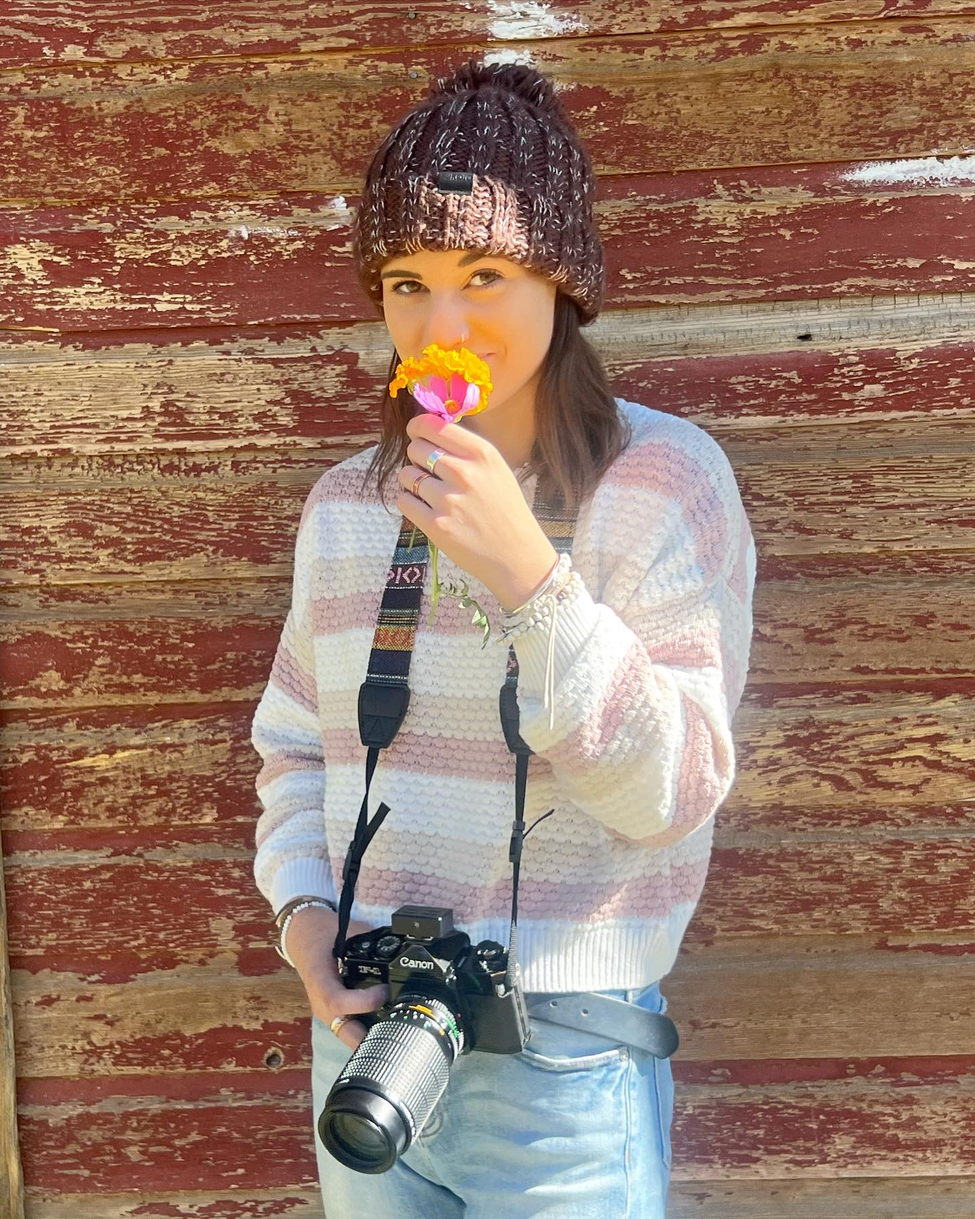
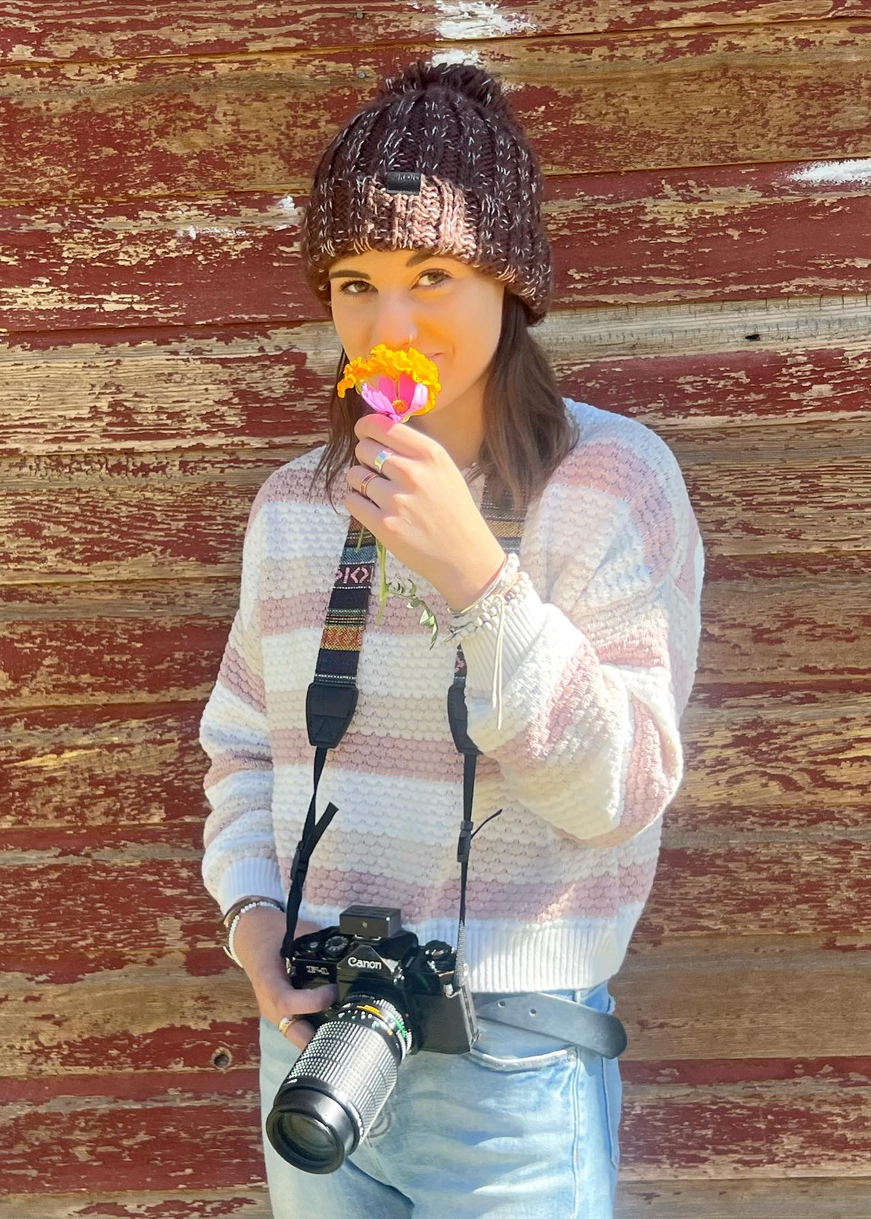
push

diff --git a/wa/wa2.html b/wa/wa2.html
@@ -13,7 +13,8 @@
     <h4>I am a sophomore from Vermont and I am interested in photography and graphic design</h3>
     <h4>I love sking and snowboarding and have been since I was 2!</h3>
     <img src="/alca8781.github.io/img/me.jpg"
-        width="400px">
+        width="500px">
+
         
 </body>
 </html>
